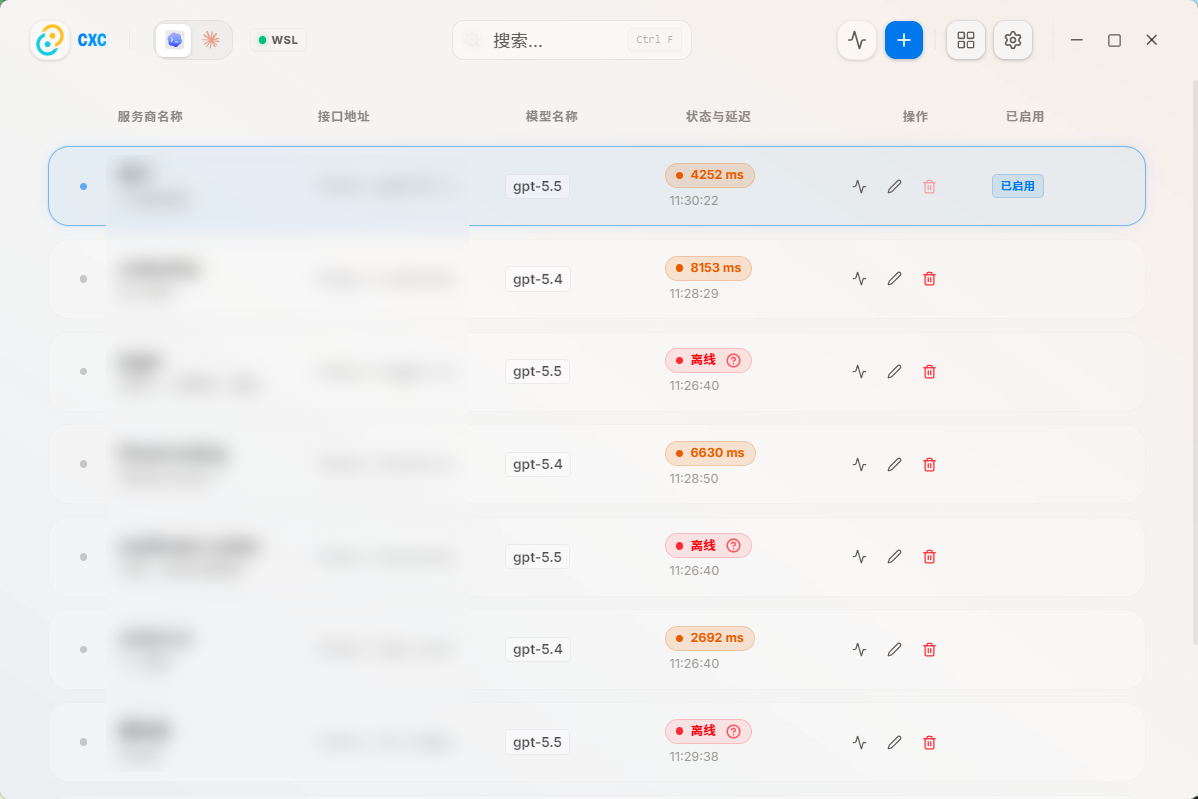
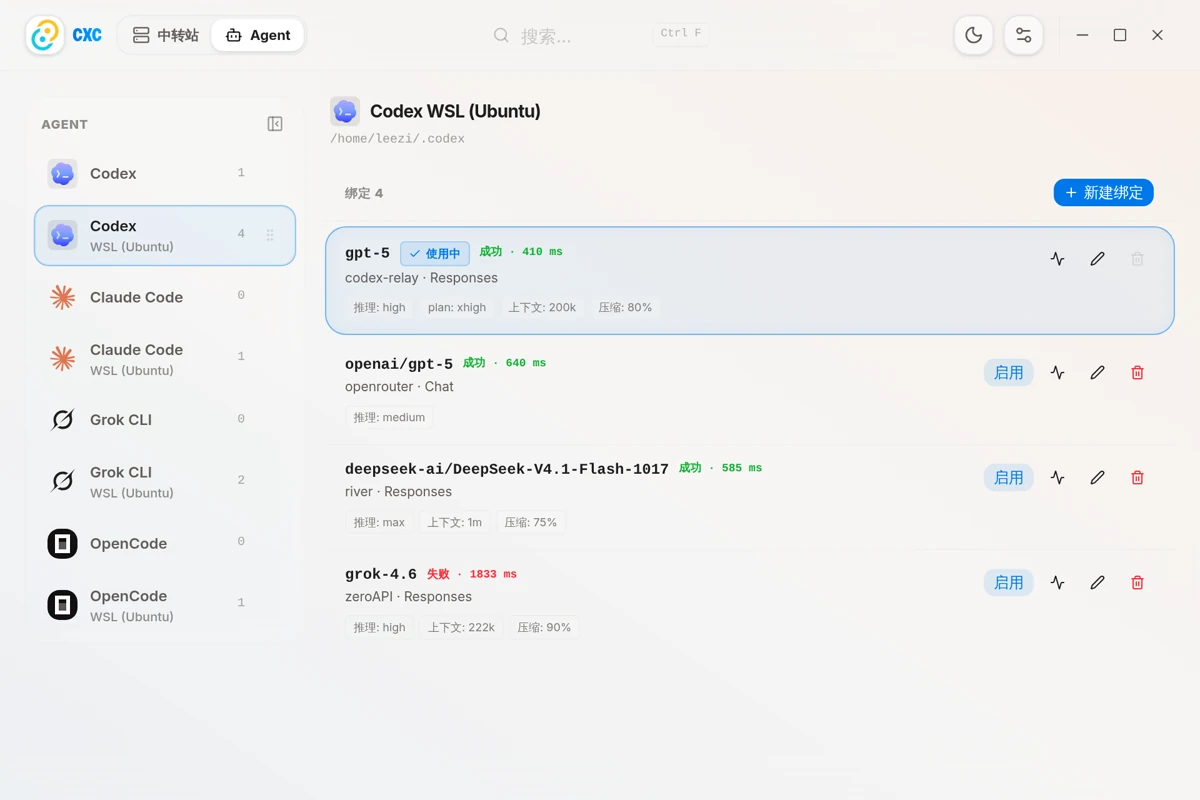
docs: 更新 README 界面截图

diff --git a/README_en.md b/README_en.md
@@ -24,6 +24,12 @@ CXC is a desktop app for managing API relay endpoints used by AI coding tools. R
 - **Safe writes** — A `.bak` backup is created before touching any target config; a failed write leaves CXC's own config unchanged.
 - **Also included** — System tray, optional Gist sync (AES-256-GCM), light/dark themes, Chinese/English UI, custom config directories.
 
+## Screenshots
+
+| Relays | Bindings and model tests |
+| --- | --- |
+| ![Relays](docs/images/suppliers.webp) | ![Bindings and model tests](docs/images/binding.webp) |
+
 ## Install
 
 Download the installer for your platform from [Releases](https://github.com/zhang3say/cxc/releases).
